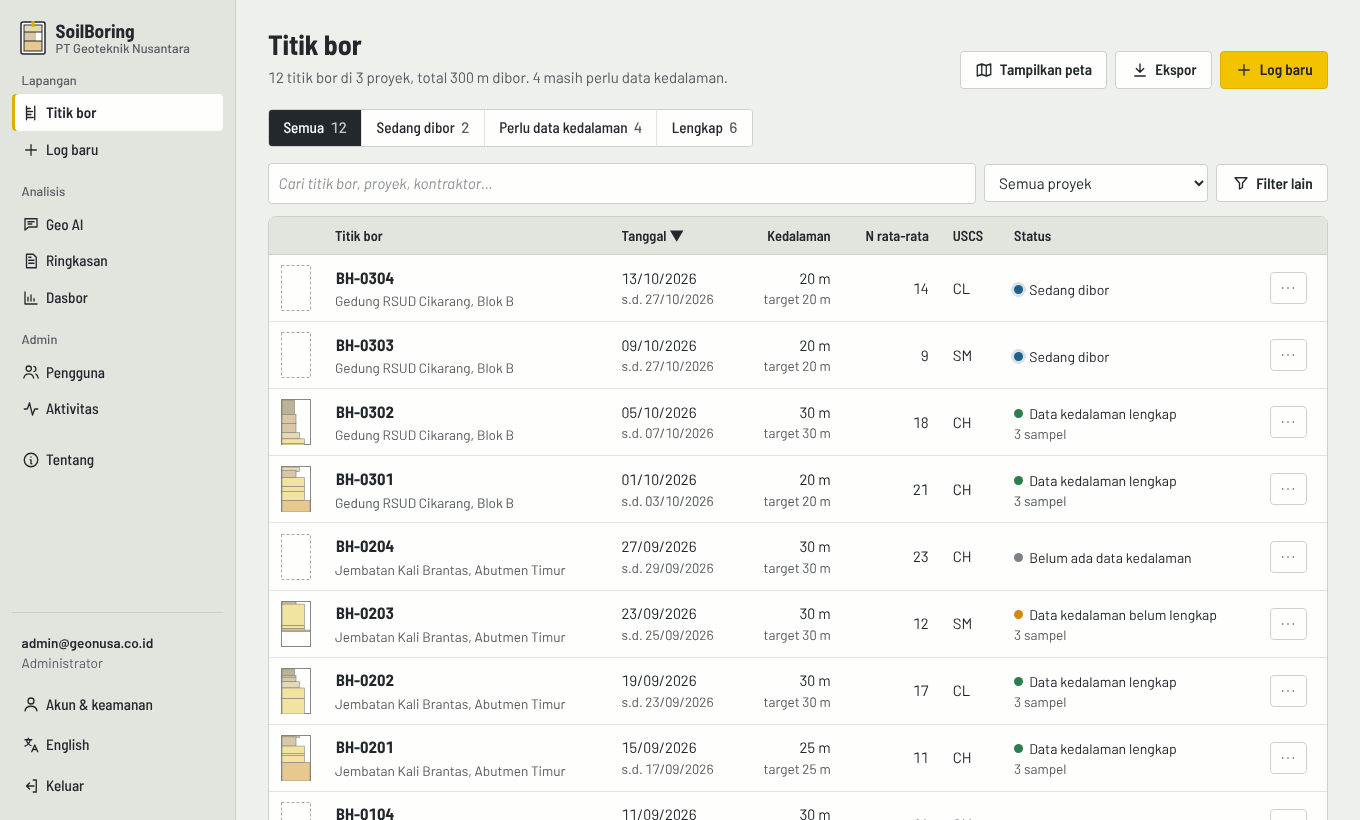
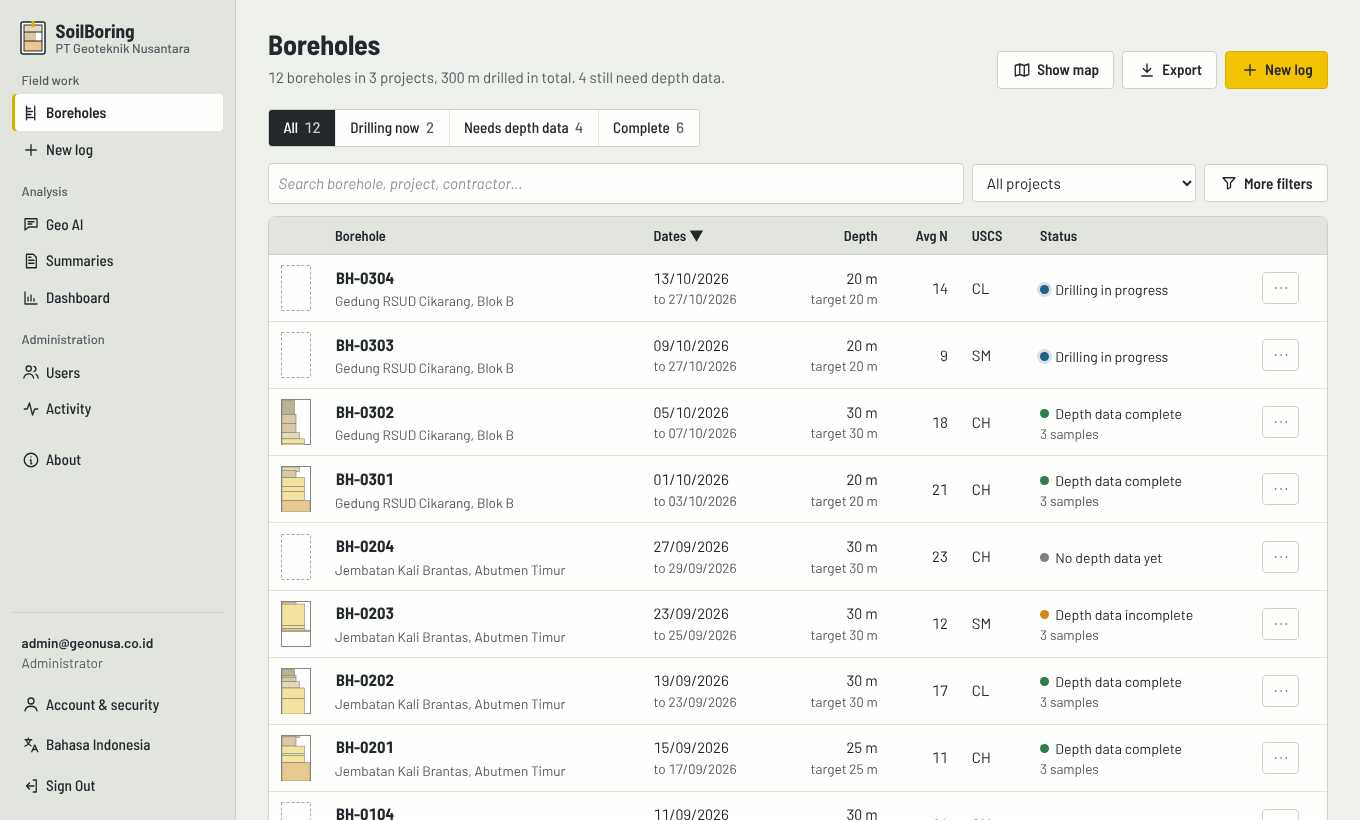
README screenshots in English, shown larger

diff --git a/README.md b/README.md
@@ -9,9 +9,17 @@ Borehole logging for geotechnical field work: logs, strata, SPT, samples, core r
 
 ![Borehole list](docs/assets/screen-boreholes.png)
 
-| Borehole profile | New log | Phone |
-| --- | --- | --- |
-| ![Profile: graphic log and SPT N](docs/assets/screen-profile.png) | ![New log form](docs/assets/screen-new-log.png) | ![Borehole list on a phone](docs/assets/screen-phone.png) |
+**Borehole profile:** graphic log (column width follows grain size) next to SPT N against depth.
+
+![Borehole profile](docs/assets/screen-profile.png)
+
+**New log:** the form in sections, with the required fields checked off beside the submit button.
+
+![New log form](docs/assets/screen-new-log.png)
+
+**On a phone:** bottom navigation; each borehole becomes a compact entry.
+
+<img src="docs/assets/screen-phone.png" alt="Borehole list on a phone" width="320">
 
 ---
 
